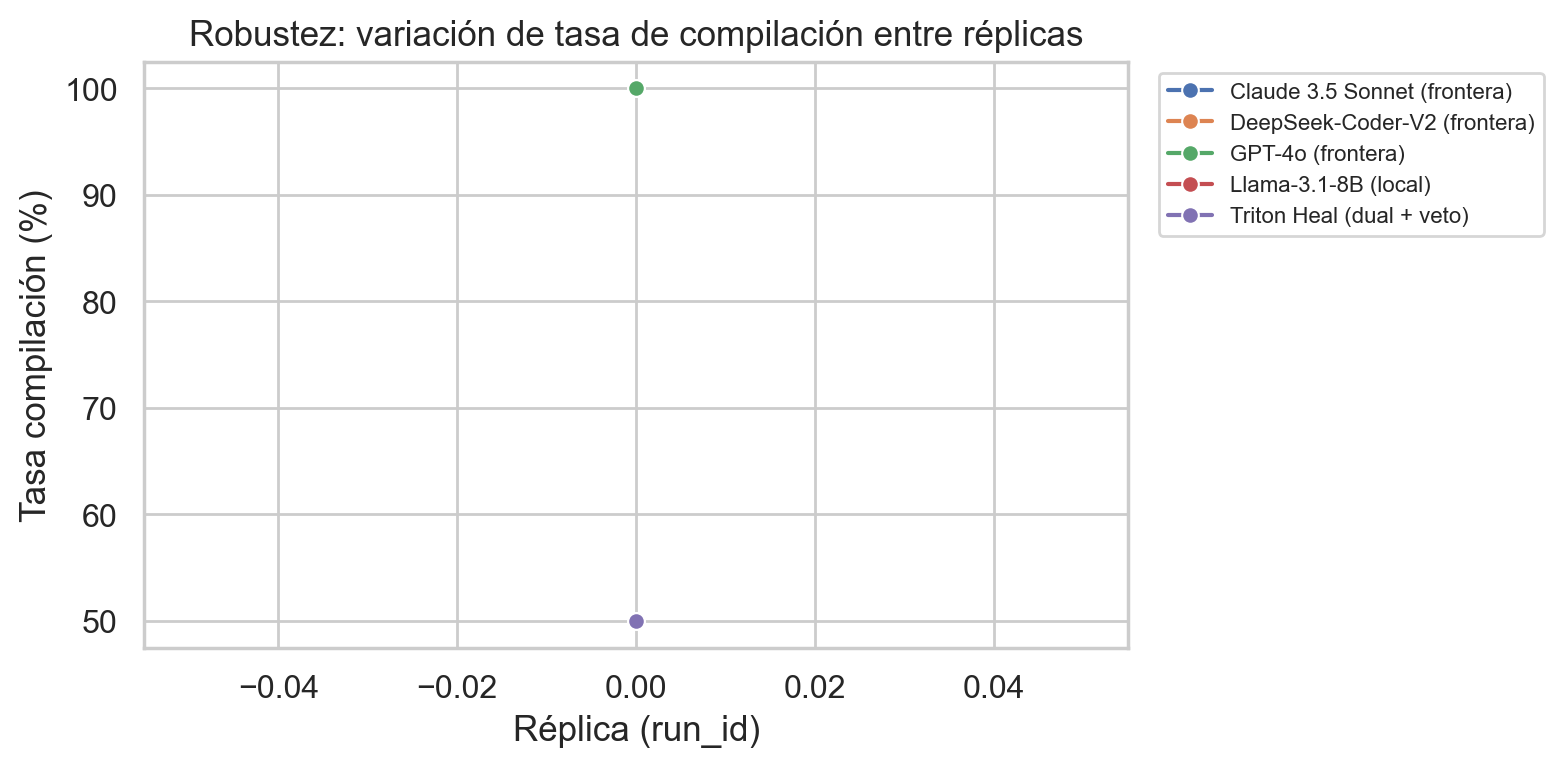
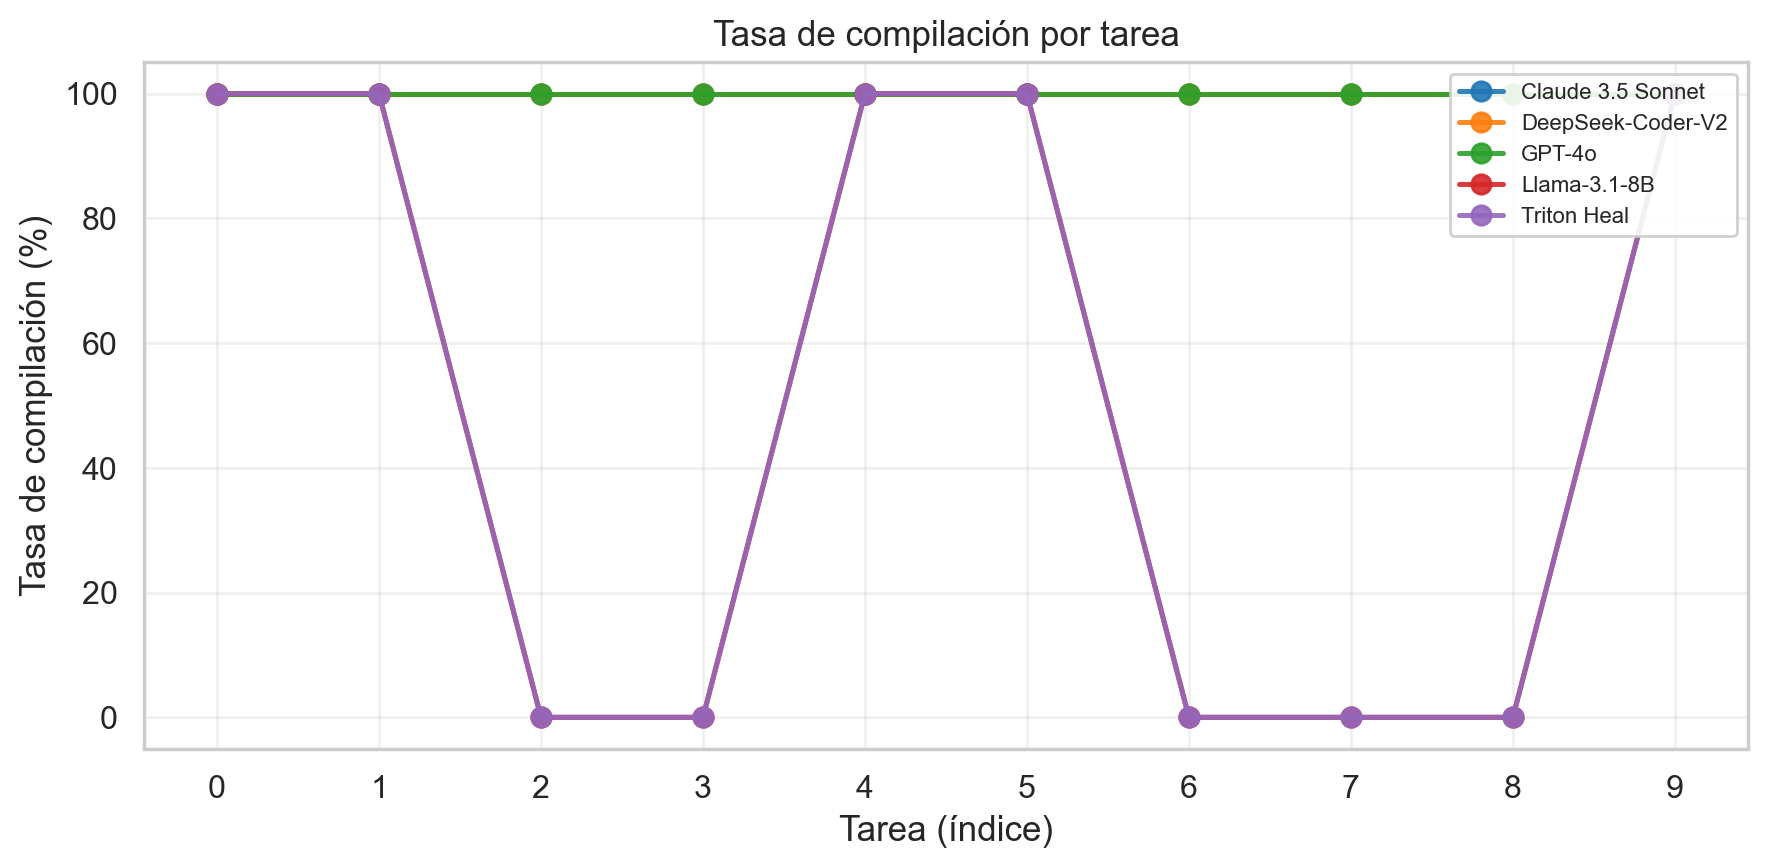
Corrige figura de robustez: variación por tarea en lugar de un solo punto.
Evita líneas colapsadas en run_id=0; leyenda y ejes legibles; PDF actualizado.

diff --git a/triton_heal_experiment/src/plot_generation.py b/triton_heal_experiment/src/plot_generation.py
@@ -62,16 +62,55 @@ def fig_speedup_box(df: pd.DataFrame):
 
 
 def fig_robustness_compile(df: pd.DataFrame):
-    sub = df.groupby(["config", "run_id"]).agg(
-        compile_pct=("compile_ok", lambda x: 100 * x.astype(bool).mean())
-    ).reset_index()
+    """Variación entre réplicas si existen; si no, entre tareas del benchmark."""
+    df = df[df["config"].isin(CONFIGS)].copy()
+    n_runs = df["run_id"].nunique() if "run_id" in df.columns else 1
+
+    if n_runs > 1:
+        sub = (
+            df.groupby(["config", "run_id"])
+            .agg(compile_pct=("compile_ok", lambda x: 100 * x.astype(bool).mean()))
+            .reset_index()
+        )
+        x_col, x_label, title = "run_id", "Réplica (run_id)", "Tasa de compilación por réplica"
+    else:
+        sub = df.copy()
+        sub["compile_pct"] = 100 * sub["compile_ok"].astype(bool)
+        sub["task_num"] = (
+            sub["task_id"].astype(str).str.extract(r"(\d+)", expand=False).astype(int)
+        )
+        x_col, x_label, title = "task_num", "Tarea (índice)", "Tasa de compilación por tarea"
+        sub = sub.groupby(["config", "task_num"], as_index=False)["compile_pct"].max()
+
     sub["label"] = sub["config"].map(CONFIG_LABELS)
-    fig, ax = plt.subplots(figsize=(8, 4))
-    sns.lineplot(data=sub, x="run_id", y="compile_pct", hue="label", marker="o", ax=ax)
-    ax.set_xlabel("Réplica (run_id)")
-    ax.set_ylabel("Tasa compilación (%)")
-    ax.set_title("Robustez: variación de tasa de compilación entre réplicas")
-    ax.legend(bbox_to_anchor=(1.02, 1), loc="upper left", fontsize=8)
+    sub = sub.sort_values(["config", x_col])
+
+    palette = sns.color_palette("tab10", n_colors=sub["config"].nunique())
+    fig, ax = plt.subplots(figsize=(9, 4.5))
+
+    for i, (config, grp) in enumerate(sub.groupby("config")):
+        short = CONFIG_LABELS[config].split("(")[0].strip()
+        ax.plot(
+            grp[x_col],
+            grp["compile_pct"],
+            marker="o",
+            linewidth=1.8,
+            markersize=7,
+            label=short,
+            color=palette[i],
+            alpha=0.9,
+        )
+
+    ax.set_xlabel(x_label)
+    ax.set_ylabel("Tasa de compilación (%)")
+    ax.set_title(title)
+    ax.set_ylim(-5, 105)
+    if n_runs <= 1:
+        ax.set_xticks(sorted(sub["task_num"].unique()))
+    else:
+        ax.set_xticks(sorted(sub["run_id"].unique()))
+    ax.legend(loc="upper right", fontsize=8, framealpha=0.9)
+    ax.grid(True, alpha=0.3)
     fig.tight_layout()
     _save(fig, "fig_robustness_compile")
 

diff --git a/report/sections/02_resultados.tex b/report/sections/02_resultados.tex
@@ -57,7 +57,7 @@ Las figuras siguientes corresponden al componente de verificación sobre el benc
 \begin{figure}[H]
   \centering
   \includegraphics[width=0.95\linewidth]{fig_robustness_compile.png}
-  \caption{Compilación por réplica (\texttt{run\_id}) en generación.}
+  \caption{Variación de la tasa de compilación entre tareas de generación (cada punto es una tarea; la corrida archivada usa una réplica por tarea).}
   \label{fig:robustness}
 \end{figure}
 
@@ -83,7 +83,7 @@ En verificación, Coder-V2 lidera en MSR; el dual ofrece un compromiso razonable
 
 \subsection{Robustez}
 
-La Tabla~\ref{tab:robustness} y la Figura~\ref{fig:robustness} reflejan principalmente una réplica en verificación y la réplica disponible en generación. El diseño prevé tres \texttt{run\_id}; repetir \texttt{make experiments} y \texttt{make generation} con \texttt{GENERATION\_REPEATS=3} permitiría discutir variabilidad entre ejecuciones con más sustento. No se cambió la semilla del benchmark entre réplicas: la variación observada proviene del modelo y del runtime, no de kernels distintos.
+La Tabla~\ref{tab:robustness} resume verificación con una réplica por kernel. La Figura~\ref{fig:robustness} muestra cómo cambia la compilación entre las diez tareas de generación (no entre réplicas, porque en la corrida archivada solo hay \texttt{run\_id=0}). El diseño prevé tres \texttt{run\_id}; repetir \texttt{make experiments} y \texttt{make generation} con \texttt{GENERATION\_REPEATS=3} permitiría discutir variabilidad entre ejecuciones con más sustento. No se cambió la semilla del benchmark entre réplicas: la variación observada proviene del modelo y del runtime, no de kernels distintos.
 
 \section{Amenazas observadas (2.5)}
 